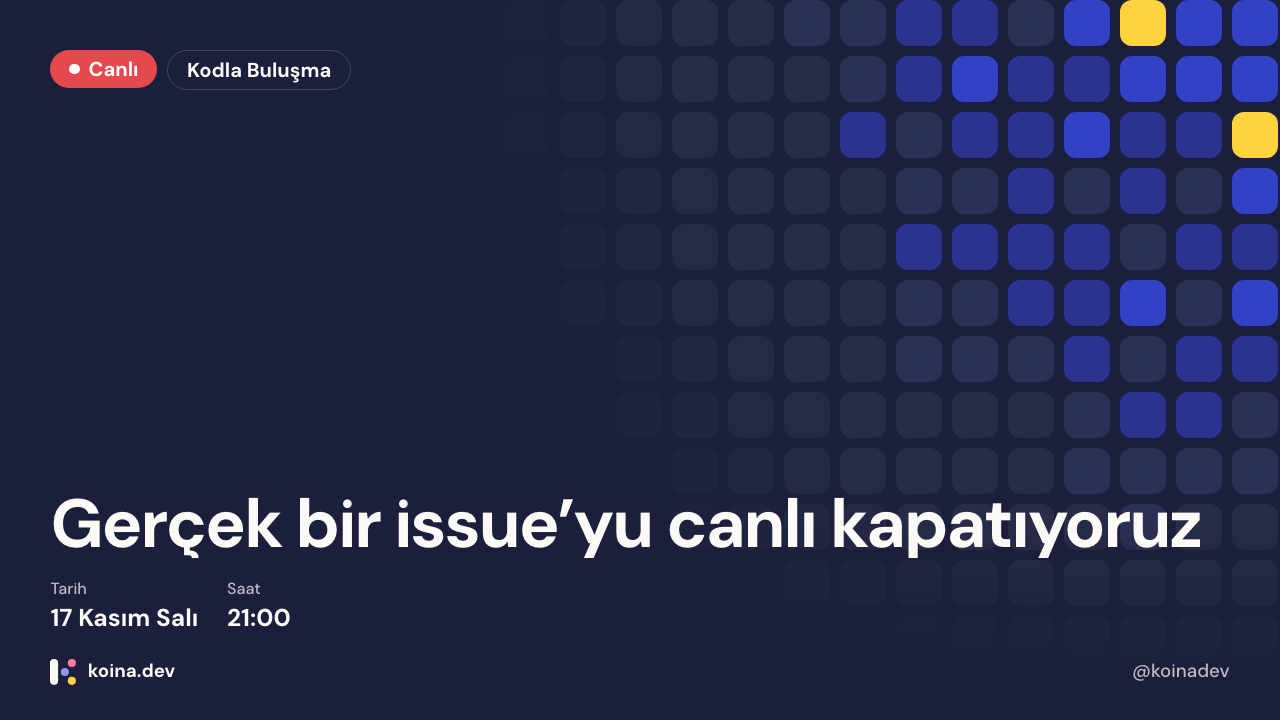
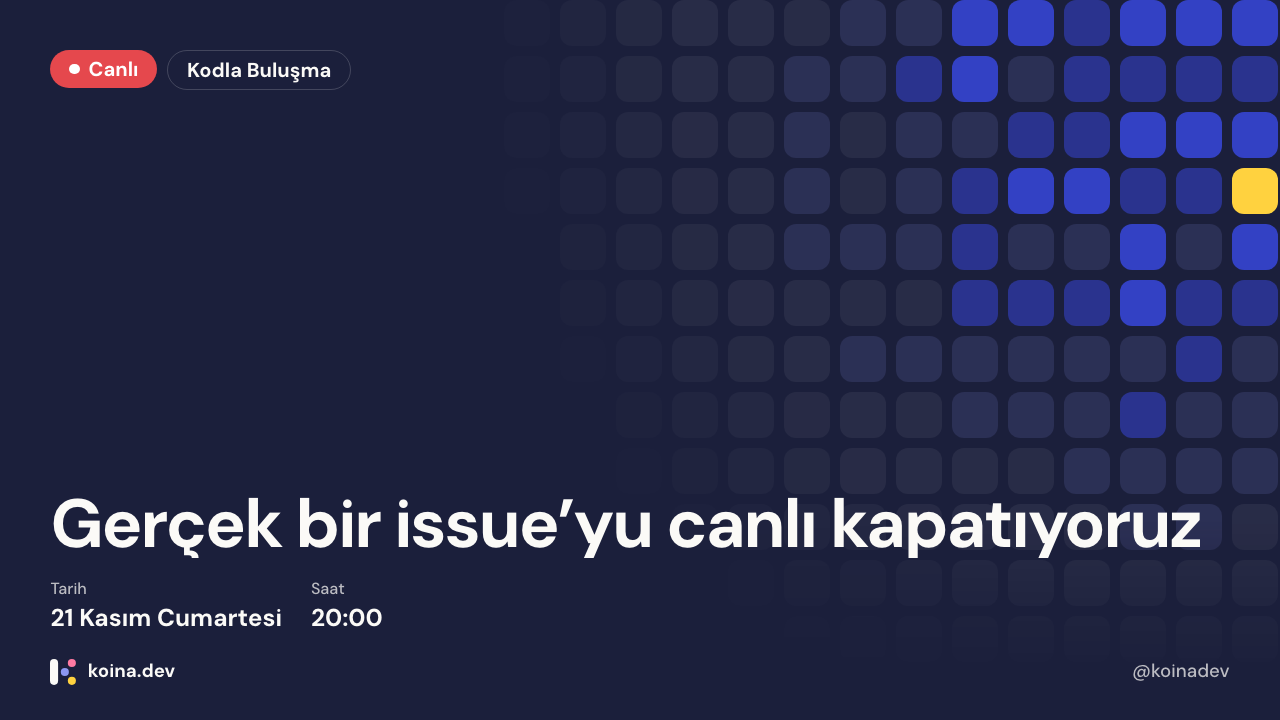
docs: canlı yayın Cumartesi 20:00, lansman 14 Kasım
Haftalık ritim, lansman günü, şablonlar ve sosyal görseller (YouTube kapağı, yayın ekranları, lansman story'si) yeni güne göre.

Changed region(s): [[0.6562, 0.0, 1.0, 0.6111], [0.0312, 0.7944, 0.3125, 0.8861], [0.8125, 0.4583, 0.875, 0.55]]

diff --git a/social/scripts/specs.ts b/social/scripts/specs.ts
@@ -13,8 +13,8 @@ const launch = {
 const live = {
   format: 'Kodla Buluşma',
   title: 'Gerçek bir issue’yu canlı kapatıyoruz',
-  date: '17 Kasım Salı',
-  time: '21:00',
+  date: '21 Kasım Cumartesi',
+  time: '20:00',
 };
 
 export const specs: Spec[] = [
@@ -24,14 +24,14 @@ export const specs: Spec[] = [
   { group: 'profile', name: 'x-header', kind: 'banner', size: 'x-header', data: { tagline: 'Usta ile çırak aynı commit geçmişinde.' } },
   { group: 'profile', name: 'linkedin-banner', kind: 'banner', size: 'linkedin-banner', data: { tagline: 'Açık kaynakta birlikte çalışarak kurulan network.' } },
   { group: 'profile', name: 'linkedin-company-cover', kind: 'banner', size: 'linkedin-company-cover', data: { tagline: 'Aynı repoda buluşalım.' } },
-  { group: 'profile', name: 'yt-banner', kind: 'banner', size: 'yt-banner', theme: 'dark', data: { tagline: 'Her Salı 21:00 canlı kodlama.' } },
+  { group: 'profile', name: 'yt-banner', kind: 'banner', size: 'yt-banner', theme: 'dark', data: { tagline: 'Her Cumartesi 20:00 canlı kodlama.' } },
   { group: 'profile', name: 'discord-splash', kind: 'banner', size: 'discord-splash', theme: 'dark', data: { tagline: 'Yayın sohbeti burada. Gel, tanış.' } },
   { group: 'profile', name: 'og-default', kind: 'announce', size: 'og', data: { title: 'Aynı repoda buluşalım.', body: launch.body } },
 
   // ---- lansman duyurusu, tüm gönderi boyutları
   { group: 'launch', name: 'ig-square', kind: 'announce', size: 'ig-square', data: launch },
   { group: 'launch', name: 'ig-portrait', kind: 'announce', size: 'ig-portrait', data: launch },
-  { group: 'launch', name: 'story', kind: 'announce', size: 'story', theme: 'dark', data: { ...launch, meta: [{ label: 'İlk yayın', value: 'Salı 21:00' }] } },
+  { group: 'launch', name: 'story', kind: 'announce', size: 'story', theme: 'dark', data: { ...launch, meta: [{ label: 'İlk yayın', value: 'Cumartesi 20:00' }] } },
   { group: 'launch', name: 'linkedin-square', kind: 'announce', size: 'linkedin-square', data: launch },
   { group: 'launch', name: 'linkedin-link', kind: 'announce', size: 'linkedin-link', data: launch },
   { group: 'launch', name: 'x-post', kind: 'announce', size: 'x-post', theme: 'dark', data: launch },
@@ -113,19 +113,19 @@ export const specs: Spec[] = [
       title: 'Koina nasıl başlıyor?',
       subtitle: 'Sıra sıra: önce görünür iş, sonra birlikte üretim.',
       cards: [
-        { heading: 'Şimdi: yayın ve kesit', body: 'Her Salı 21:00 canlı kod yazıyoruz. En öğretici anlar kısa kesit olarak buraya geliyor.' },
+        { heading: 'Şimdi: yayın ve kesit', body: 'Her Cumartesi 20:00 canlı kod yazıyoruz. En öğretici anlar kısa kesit olarak buraya geliyor.' },
         { heading: 'Sonra: konuk ustalar', body: 'Deneyimli geliştiriciler yayına gelir, gerçek PR’ları birlikte inceleriz.' },
         { heading: 'Sonra: topluluk', body: 'Eşli çalışma saatleri, fikir havuzu ve ilk açık kaynak katkıların.' },
         { heading: 'Sonra: ilk proje', body: 'Küçük bir ekiple bir projeyi baştan sona açıkta çıkarırız. Sezonlar ondan sonra.' },
       ],
-      cta: { title: 'İlk adım kolay', body: 'YouTube’da abone ol, Salı 21:00’de sohbete gel.' },
+      cta: { title: 'İlk adım kolay', body: 'YouTube’da abone ol, Cumartesi 20:00’de sohbete gel.' },
     },
   },
 
   // ---- yayın ekranları (OBS)
   { group: 'stream', name: 'starting', kind: 'stream', size: 'stream', theme: 'dark', data: { state: 'starting', title: 'Kodla Buluşma', subtitle: 'Sohbete yaz: bugün neyi çözüyoruz?' } },
   { group: 'stream', name: 'break', kind: 'stream', size: 'stream', theme: 'dark', data: { state: 'break', title: '5 dakikaya dönüyoruz', subtitle: 'discord.gg/koinadev' } },
-  { group: 'stream', name: 'ending', kind: 'stream', size: 'stream', theme: 'dark', data: { state: 'ending', title: 'Bir sonraki yayın Salı 21:00', subtitle: 'Kayıt ve kod: koina.dev' } },
-  { group: 'stream', name: 'offline', kind: 'stream', size: 'stream', theme: 'light', data: { state: 'offline', title: 'Her Salı 21:00', subtitle: 'Kodla Buluşma' } },
+  { group: 'stream', name: 'ending', kind: 'stream', size: 'stream', theme: 'dark', data: { state: 'ending', title: 'Bir sonraki yayın Cumartesi 20:00', subtitle: 'Kayıt ve kod: koina.dev' } },
+  { group: 'stream', name: 'offline', kind: 'stream', size: 'stream', theme: 'light', data: { state: 'offline', title: 'Her Cumartesi 20:00', subtitle: 'Kodla Buluşma' } },
   { group: 'stream', name: 'lower-third', kind: 'lowerThird', size: 'stream', data: { name: 'Konuk adı', role: 'Usta · Proje adı' } },
 ];
